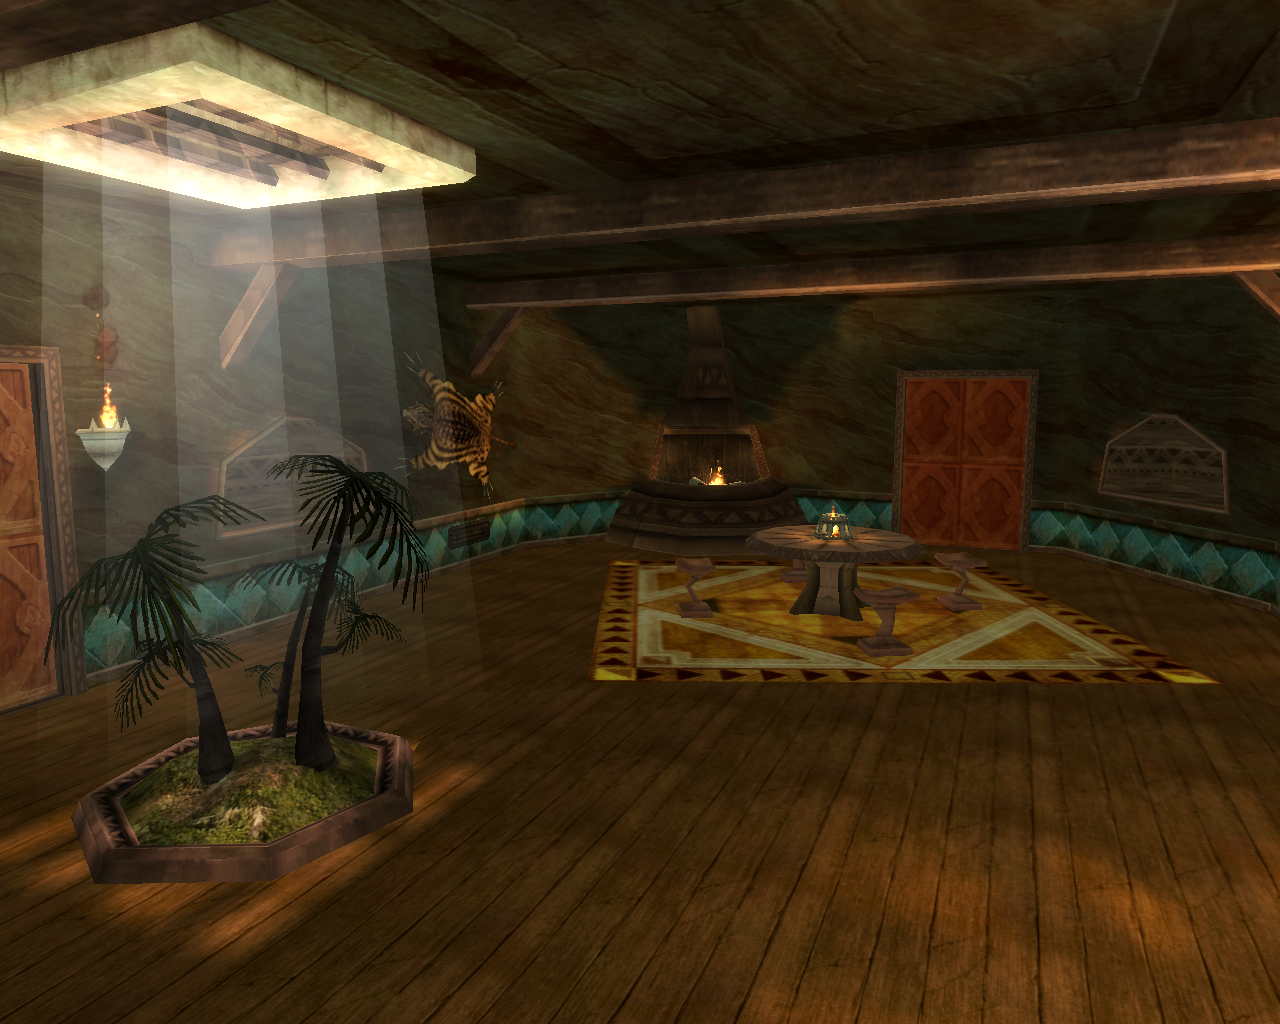
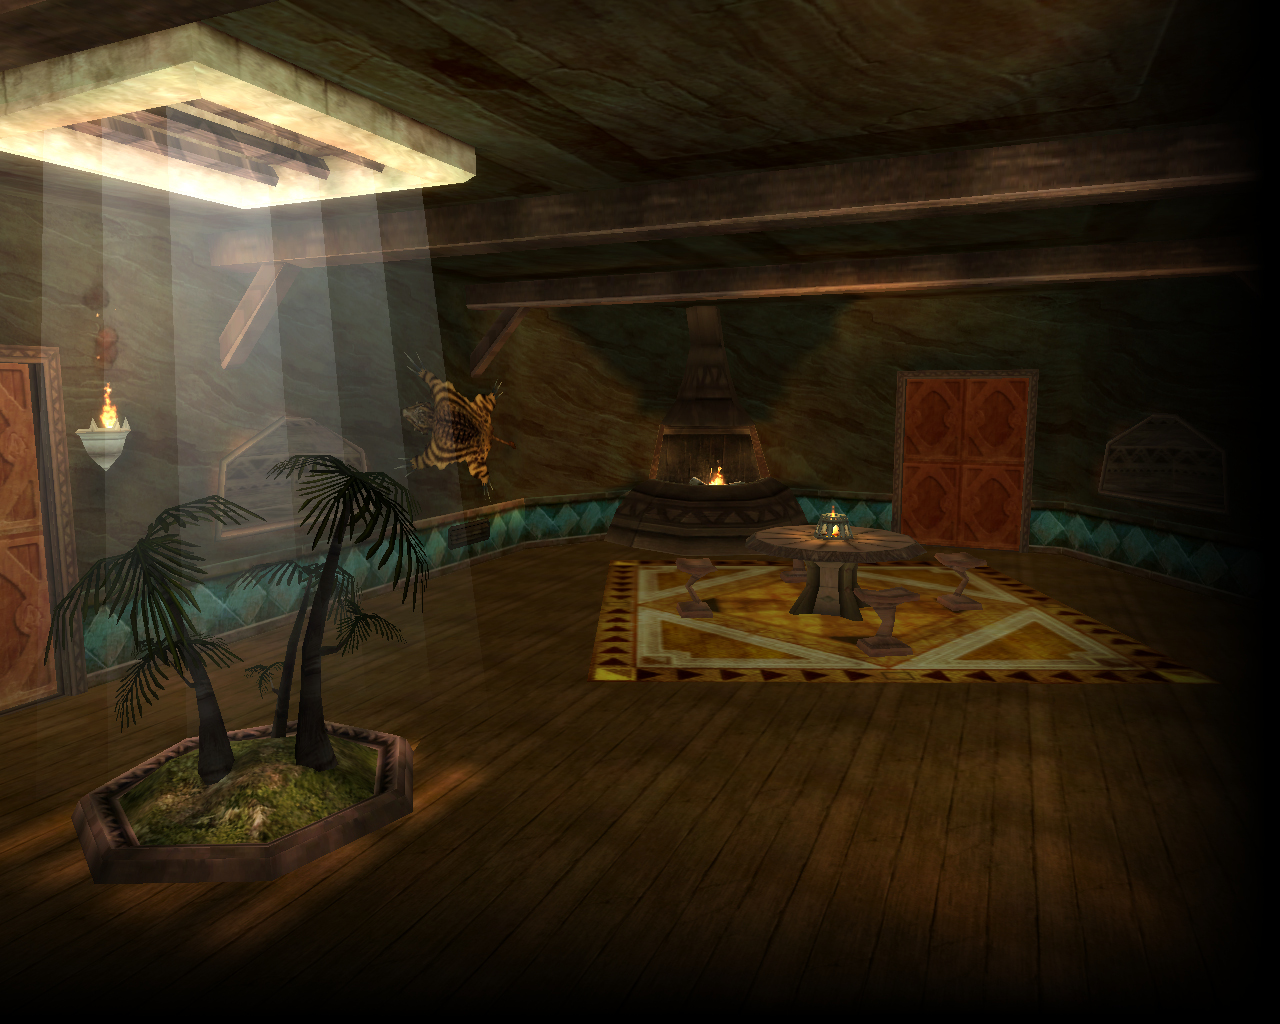
Change the background of the fyros and tryker skin.

Changed region(s): [[0.0, 0.0, 1.0, 1.0]]

diff --git a/css/tryker.css b/css/tryker.css
@@ -1,7 +1,7 @@
 body{
 	background-image:url(../img/tryker_gh.jpg);
 	background-repeat:no-repeat;
-	background-color:#131210;
+	background-color:#000;
 }
 #search_content.ryzom-ui-m {
 	background-image: url(../img/skin_blank_flunker.png);

diff --git a/css/fyros.css b/css/fyros.css
@@ -1,7 +1,7 @@
 body{
 	background-image:url(../img/fyros_gh.jpg);
 	background-repeat:no-repeat;
-	background-color:#131210;
+	background-color:#000;
 }
 #search_content.ryzom-ui-m {
 	background-image: url(../img/skin_blank_flunker.png);
